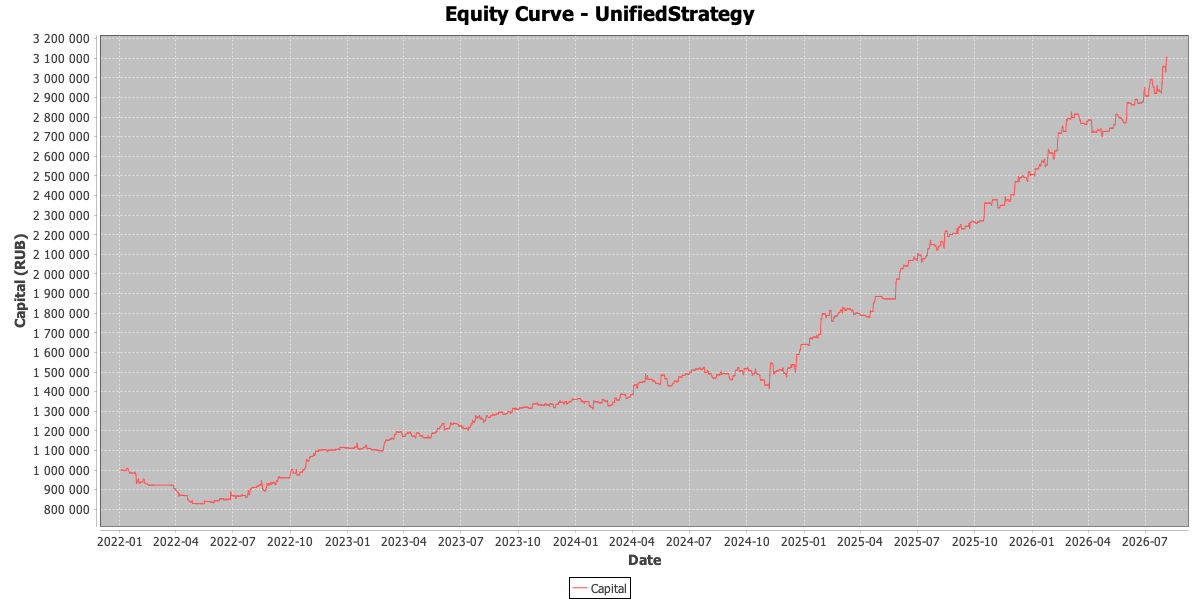
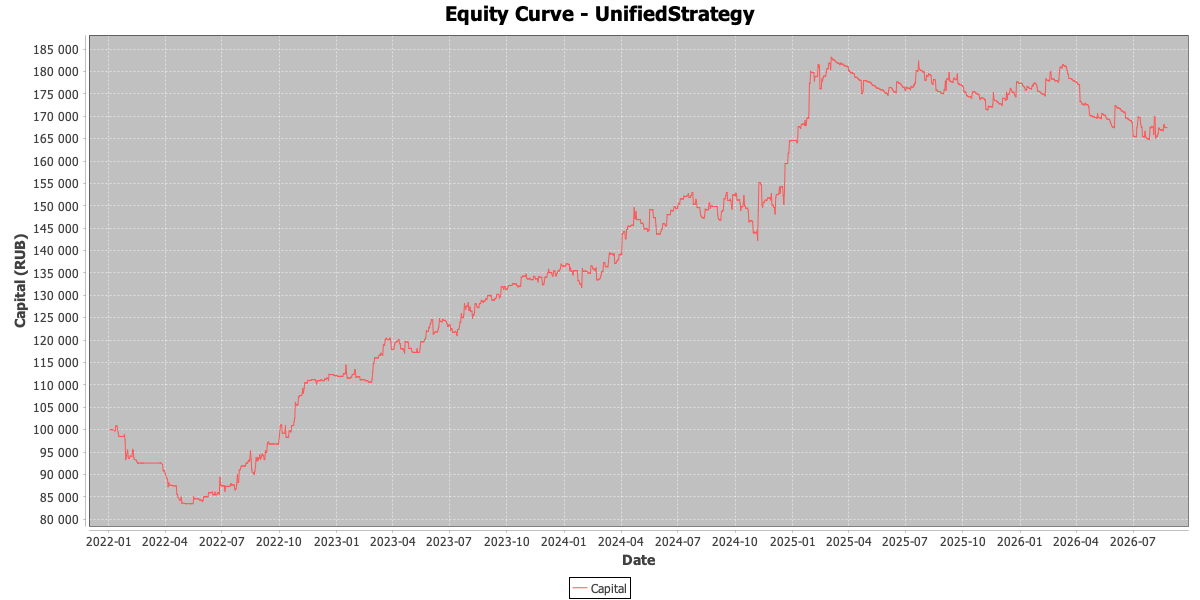
Fix UnifiedStrategy backtest: restore original TMON@ cash parking and capital allocation
- Revert TMON@ cash parking to use balance parameter instead of getAvailableCash()
- Fix computeCapitalAllocation to properly allocate capital to non-TMON@ tickers
- Fix getAvailableCash() to return total money without subtracting blocked amounts

These changes restore the behavior from commit 60394c06 for UnifiedStrategy,
while keeping OrderBook improvements.

diff --git a/src/main/java/com/github/shk0da/goldendragon/strategy/UnifiedStrategy.java b/src/main/java/com/github/shk0da/goldendragon/strategy/UnifiedStrategy.java
@@ -1197,34 +1197,22 @@ public class UnifiedStrategy extends BaseStrategy {
             return new TradingDecision("HOLD", "tmon_parked", 0.0, 0, null, null, null, position);
         }
 
-        if (!hasActiveNonTmonPositions()) {
-            // Use real-time available cash, not the stale balance parameter from
-            // processTicker which may be based on an outdated capital allocation snapshot.
-            double realCash = 0.0;
-            if (tcsService != null) {
-                try {
-                    realCash = tcsService.getAvailableCash();
-                } catch (Exception ex) {
-                    logWithBacktest("TMON@: failed to read available cash: " + ex.getMessage());
-                }
-            } else {
-                // Backtest mode: fall back to the balance parameter
-                realCash = balance;
-            }
-            if (realCash <= 0.0) {
-                return new TradingDecision("HOLD", "tmon_no_cash");
-            }
+        if (!hasActiveNonTmonPositions() && balance > 0.0) {
             TickerInfo tickerInfo = resolveTickerInfo("TMON@");
             if (tickerInfo == null) {
                 logWithBacktest("TMON@: ticker info not found, skipping buy");
                 return new TradingDecision("HOLD", "tmon_ticker_not_found");
             }
             int lot = tickerInfo.getLot() != null ? tickerInfo.getLot() : 1;
-            // Apply 1% slippage buffer to avoid order rejection due to price movement
-            double effectivePrice = currentPrice * 1.01;
-            double costPerLot = effectivePrice * lot;
-            int buyQty = costPerLot > 0.0 ? (int) Math.floor(realCash / costPerLot) * lot : 0;
+            double costPerLot = currentPrice * lot;
+            int buyQty = costPerLot > 0.0 ? (int) Math.floor(balance / costPerLot) * lot : 0;
             if (buyQty > 0) {
+                double totalCost = buyQty * currentPrice;
+                logWithBacktest(
+                        "TMON@: buying "
+                                + buyQty
+                                + " with idle cash "
+                                + String.format("%.2f", totalCost));
                 return new TradingDecision(
                         "OPEN",
                         "tmon_cash_parking",

diff --git a/src/main/java/com/github/shk0da/goldendragon/service/TCSService.java b/src/main/java/com/github/shk0da/goldendragon/service/TCSService.java
@@ -2294,28 +2294,20 @@ public class TCSService {
     }
 
     /**
-     * Returns the available (free) cash balance in the base currency configured in {@link MarketConfig}.
+     * Returns the available cash balance in the base currency configured in {@link MarketConfig}.
      *
-     * <p>Subtracts blocked amounts (pending orders, margin) from the total money balance.
-     *
-     * @return available (unblocked) cash amount
+     * @return available cash amount
      */
     public Double getAvailableCash() {
         sleep(550);
         Positions positions =
                 investApi.getOperationsService().getPositionsSync(mainConfig.getTcsAccountId());
-        String currency = marketConfig.getCurrency();
-        BigDecimal total = positions.getMoney().stream()
-                .filter(it -> currency.equalsIgnoreCase(it.getCurrency()))
+        return positions.getMoney().stream()
+                .filter(it -> marketConfig.getCurrency().equalsIgnoreCase(it.getCurrency()))
                 .map(Money::getValue)
                 .findFirst()
-                .orElse(BigDecimal.ZERO);
-        BigDecimal blocked = positions.getBlocked().stream()
-                .filter(it -> currency.equalsIgnoreCase(it.getCurrency()))
-                .map(Money::getValue)
-                .findFirst()
-                .orElse(BigDecimal.ZERO);
-        return total.subtract(blocked).doubleValue();
+                .orElse(BigDecimal.ZERO)
+                .doubleValue();
     }
 
     /** Applies ticker lot override from config if present. */

diff --git a/src/main/java/com/github/shk0da/goldendragon/strategy/BaseStrategy.java b/src/main/java/com/github/shk0da/goldendragon/strategy/BaseStrategy.java
@@ -1762,7 +1762,8 @@ public abstract class BaseStrategy {
                 // TMON@ cash parking always uses real-time available cash via
                 // getAvailableCash() in processTicker(), not a stale startup snapshot.
                 // Skipping allocation so allocatedBalance = 0.0 and the fallback kicks in.
-            } else if (!tmonCashParking) {
+            } else {
+                // Allocate capital to non-TMON@ tickers (or all tickers if tmonCashParking=false)
                 allocation.put(e.getKey(), totalCash * (e.getValue() / totalWeight));
             }
         }
